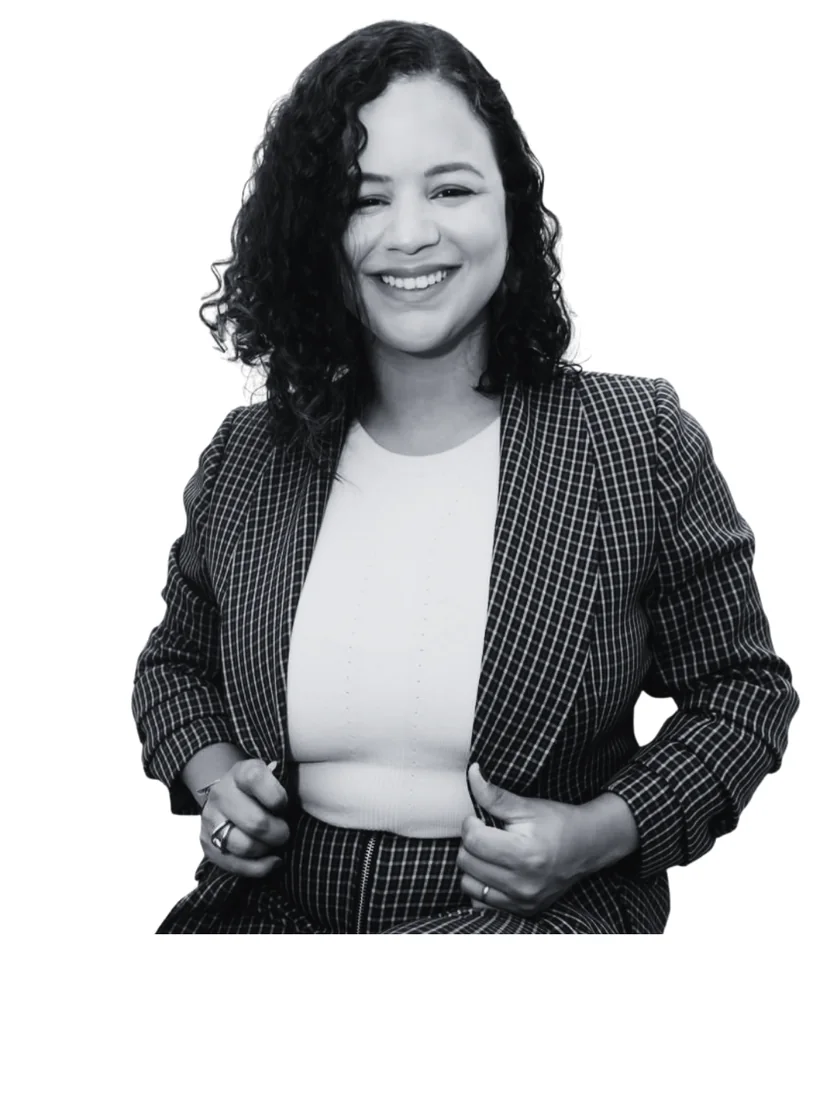
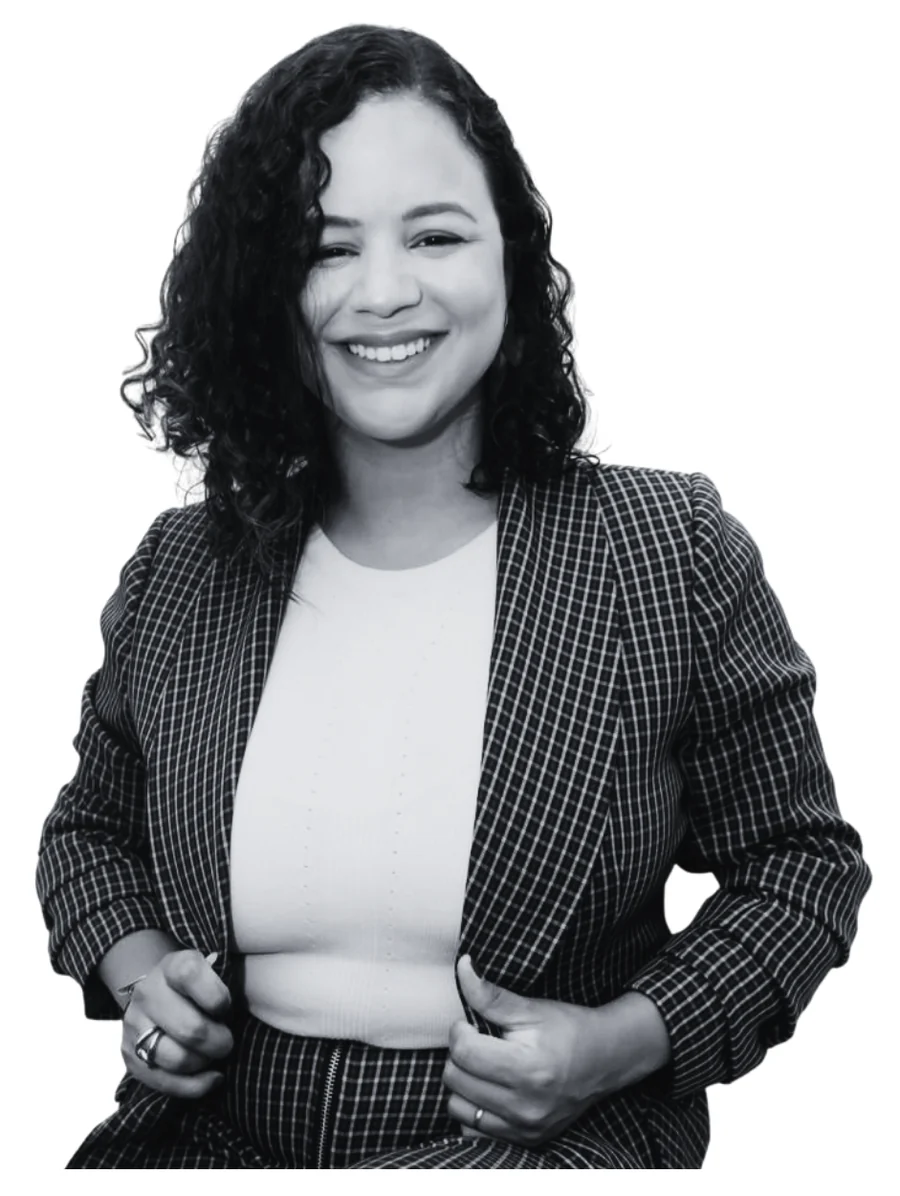
Adjust Carol photo card

diff --git a/app/globals.css b/app/globals.css
@@ -1757,15 +1757,15 @@ h1 > span {
 
 .sis-people-grid {
   display: grid;
-  grid-template-columns: minmax(0, 0.92fr) minmax(0, 1.18fr);
+  grid-template-columns: 1fr;
   gap: 18px;
   align-items: stretch;
 }
 
 .sis-person-card {
   display: grid;
-  grid-template-columns: minmax(170px, 0.42fr) minmax(0, 0.58fr);
-  min-height: 430px;
+  grid-template-columns: minmax(280px, 320px) minmax(0, 1fr);
+  min-height: 380px;
   overflow: hidden;
   background: var(--cream);
   border: 2px solid var(--ink);
@@ -1788,7 +1788,7 @@ h1 > span {
   display: block;
   width: 100%;
   height: 100%;
-  min-height: 430px;
+  min-height: 380px;
   object-fit: cover;
   object-position: center;
 }
@@ -1798,7 +1798,9 @@ h1 > span {
 }
 
 .sis-person-card.carol .sis-person-photo img {
-  object-position: center top;
+  object-fit: contain;
+  object-position: center bottom;
+  padding: 16px 12px 0;
 }
 
 .sis-person-copy {
